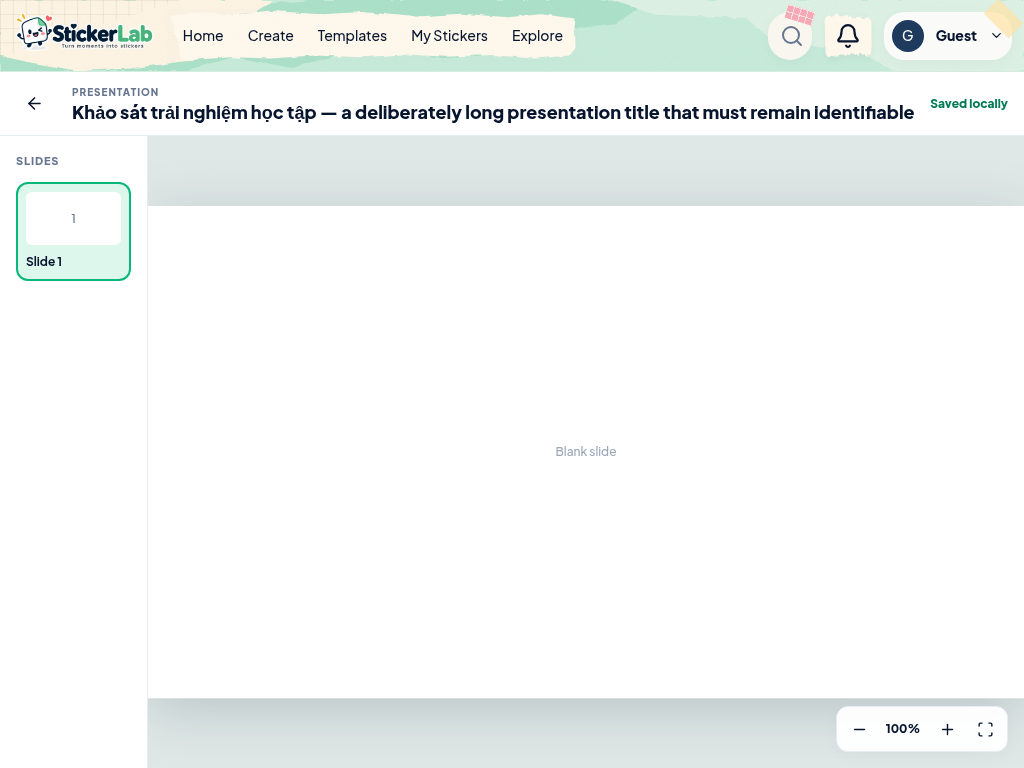
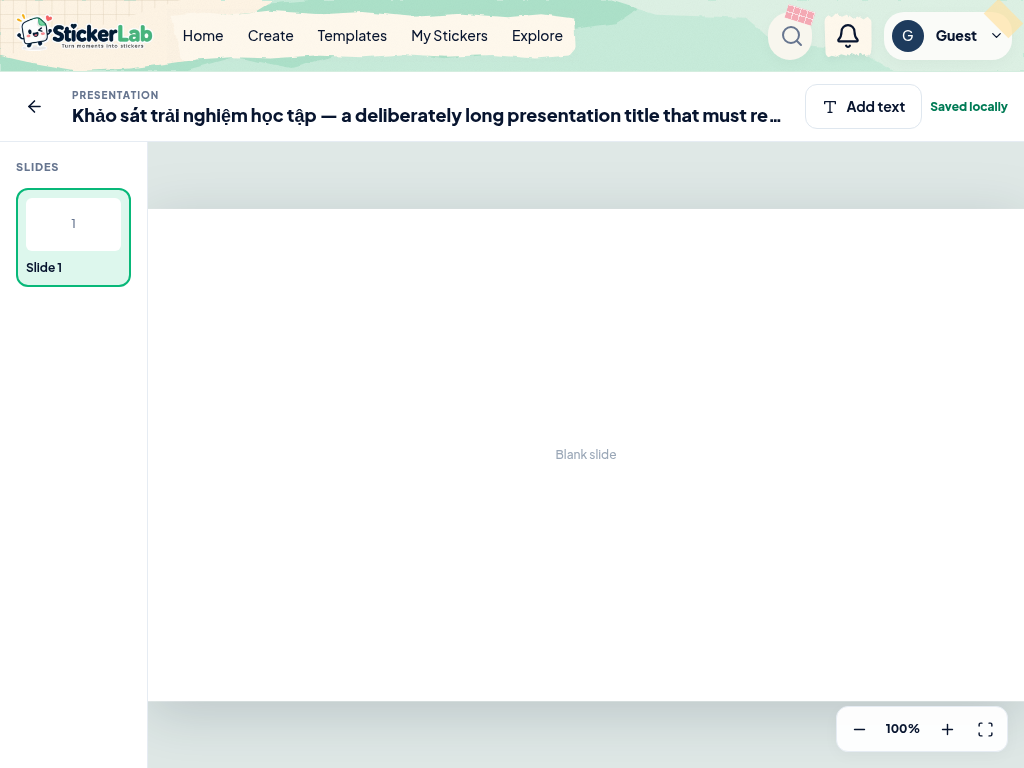
Record P17 text-editing evidence and update the plan
- proofs/p17-text-editing.md: what landed, the falsifiable browser evidence
  (real hit testing, wheel zoom with a mid-word caret, empty-box reachability,
  repository-contract save/reopen with pixel checks), the exact checks, and the
  remaining limits (formatting and transforms in later tasks, pointer-only
  selection, blur-to-commit on canvas interaction, per-keystroke document work).
- Refreshed captures: new p17 editing/reopened shots, and the p15/p16 editor
  shots which now show the Add text/Edit text bar actions.
- Plan marks P17 done and states that save/reopen was proven through the
  repository contract while the Save UI stays in P19; README, CONTEXT, HANDOFF,
  and docs/ui-audit.md describe the text editing UI, its reachable-at-phone
  actions, and its honest unsaved state.

docs/editor-library-research.md stays untracked as the HANDOFF guardrail
requires.

Verified: git diff --check, npm run typecheck, npm run lint (0 errors, 4
existing warnings), npm test (31 files / 352 tests), npm run build,
npx playwright test e2e/presentations.spec.ts (5 passed), e2e/proofs (2 passed),
e2e/editor.spec.ts (6 passed).

diff --git a/proofs/p17-text-editing.md b/proofs/p17-text-editing.md
@@ -1,0 +1,137 @@
+# P17 — basic wrapped text editing
+
+Verified 2026-09-11 on this Linux x86_64 workspace with headless Chromium 152.
+
+## Implemented
+
+- **Insert** — the editor bar's “Add text” action builds a real `TextElement`
+  through `createTextElement()` and `usePresentationStore.addElement()`, then
+  opens the editor for it. Insert is one history entry.
+- **Select** — the renderer makes text elements hit-testable
+  (`renderSlide({ listening: true })`, `createKonvaTextForRun(..., listening)`);
+  shapes and images stay inert until P24. A text element gets a full-box hit
+  region, so an empty or cleared box is still selectable; Konva paints that
+  rect's colour key on the hit canvas only, so nothing extra is drawn. A canvas
+  click selects, an empty-canvas click clears the selection, and a DOM outline
+  shows the selected box. Double click (or the bar's “Edit text” button) opens
+  the editor.
+- **Edit** — `TextEditOverlay` renders one `contenteditable` field positioned
+  over the element in document units and scaled as a whole, so fit, zoom, and
+  pan never re-seed the field or move the caret. The field is seeded from
+  `paragraphsToHtml` and every commit reads back through
+  `readParagraphsFromDom`; the paragraph/run model stays authoritative and the
+  DOM tree is never persisted.
+- **One session, one history entry** — commits share
+  `textHistoryGroup(elementId)` and `endHistoryGroup()` runs when the session
+  ends (blur, Escape, or unmount), so typing ten characters and pressing Escape
+  leaves exactly one undo entry. The store clears the editing target when the
+  element or its slide is removed, on a slide switch, and after undo/redo, so
+  the target cannot go stale.
+- **English/Vietnamese input** — IME composition commits once on
+  `compositionend` instead of per keystroke, and Escape during composition is
+  left to the IME. Paste is intercepted, normalized through
+  `htmlToParagraphs`/`plainTextToParagraphs`, and inserted as plain text with
+  line breaks kept as `<br>`; pasted markup (including `javascript:` links and
+  `<script>`) never reaches the field or the document. A stale DOM selection
+  left over from another element cannot swallow the paste.
+- **Rejected commits stay recoverable** — a command the document rejects (for
+  example text past the 20 000-character limit) shows an honest in-editor alert
+  and keeps the session open instead of throwing out of the React handler and
+  stranding the editor.
+- **Text sessions are view state** — the editing target lives in
+  `view.editingElementId`; opening, closing, or losing it never dirties the
+  document.
+- The edited element's geometry (`x`, `y`, `width`, `height`) is untouched, and
+  text typed into a paragraph with no seeded run uses the element's first-run
+  style, falling back to the document theme's body font and text colour.
+- While the field is focused, wheel zoom over the canvas keeps working and the
+  field travels with the element; canvas clicks and drags follow the usual
+  blur-to-commit rule and end the session.
+
+### Save and reopen
+
+P17 deliberately adds no Save control and no autosave: `docs/slides-implementation-plan.md`
+assigns truthful autosave, explicit Save, and revision conflicts to P19, and the
+editor's status pill already reports the honest `Unsaved changes` state derived
+from `dirty`. The P17 acceptance (“blur/save/reopen without losing content or
+position”) is proven against the persistence contract instead: the edited
+document is saved through `PresentationRepository.savePresentation(document, [],
+{ baseRevision: savedRevision })` and reopened from IndexedDB, and the reopened
+element's text, geometry, and rendered pixels are asserted.
+
+## Acceptance evidence
+
+`e2e/presentations.spec.ts` — `inserts, edits, saves, and reopens a text box
+without moving it` drives the real Konva canvas and the real DOM bridge:
+
+- insert → the overlay opens focused, type `Xin chào Việt Nam — hello`;
+- click the canvas: the session ends, one history entry exists, the status shows
+  `Unsaved changes`, and zoom/pan are still `1`/`{x:0,y:0}`;
+- click the text line on the canvas: `data-selected-element` becomes the element
+  id (real hit testing, not a test seam); double click reopens the editor;
+- wheel-zoom over the canvas while editing: the dashed field still matches the
+  element box within 2 px, ArrowLeft ×2 followed by typing inserts inside the
+  word (`hel~lo`) instead of resetting the caret to the end;
+- insert a second box, blur it without typing, and click it again: the empty box
+  is still selectable through its hit region;
+- save through the repository with `baseRevision` and reopen from
+  `/presentations`: the document JSON keeps the same `x/y/width/height`, and the
+  reopened canvas paints dark text pixels inside the saved box and none in a
+  region below it.
+
+Unit coverage:
+
+- `presentations.test.tsx` — insert + edit with one history entry and unchanged
+  geometry; IME commits once and only on `compositionend`; pasted markup is
+  stripped of links and scripts; pasted line breaks survive (even with a stale
+  selection present); a rejected over-limit commit shows an alert and leaves the
+  session recoverable; opening and closing without typing changes neither
+  history nor revision nor `dirty`; theme body font/colour reach the typed run;
+  an existing rich text element keeps its `spectral`/72/white/bold run and its
+  geometry; the status reports `Unsaved changes`.
+- `editor/store.test.ts` — `startTextEdit`/`endTextEdit` are view state only,
+  reject non-text and unknown ids, close on slide switch, and the target is
+  dropped when its element or slide is removed or undo removes the element.
+
+Committed captures: `proofs/out/p17-editor-editing-1280x768.png`,
+`proofs/out/p17-editor-reopened-1280x768.png`.
+
+## Checks
+
+```text
+git diff --check                                      passed
+npm run typecheck                                     passed
+npm run lint                                          passed, 4 existing Fast Refresh warnings
+npm test                                              passed, 31 files / 352 tests
+npm run build                                         passed
+npx playwright test e2e/presentations.spec.ts --workers=1
+                                                      passed, 5 tests
+npx playwright test e2e/proofs --workers=1            passed, 2 tests
+npx playwright test e2e/editor.spec.ts --workers=1    passed, 6 tests (sticker regression)
+```
+
+The P04 text-bridge and P06 PDF/backup proofs build their own Konva nodes and do
+not call `renderSlide`, so the hit-testing change does not touch them. Inside the
+renderer, `listening` still defaults to `false`; `PresentationCanvas` is the only
+caller that opts in, and `renderSlide` keeps shapes and images inert either way.
+
+## Remaining boundary
+
+P18 (image insertion), P19 (autosave and explicit Save), P20 (library
+management) are not started. Within text editing specifically:
+
+- Moving, resizing, and rotating the box is P24; formatting runs (bold, size,
+  colour, family) is P26; bullets, alignment, spacing, and link editing is P27.
+  Alignment, bullets, and per-run styling survive an edit but cannot be changed
+  from the UI yet, and a paragraph created with Enter reads back as left-aligned.
+- Selection is pointer-only: there is no keyboard path to select an existing box
+  until the element list in P30, and `locked` elements are still editable for the
+  same reason.
+- Interacting with the canvas (click or drag) blurs the field and commits the
+  session; only wheel zoom keeps editing uninterrupted. An explicit edit mode is
+  a later-editing concern.
+- The overlay is not clipped to the slide page, so text overflowing the slide
+  edge is visible while editing and clipped once the session ends.
+- Each keystroke clones, re-serializes, and re-validates the document and
+  rebuilds the canvas page. That is fine at P17 scale and is the obvious place to
+  measure before P19 adds autosave.

diff --git a/HANDOFF.md b/HANDOFF.md
@@ -10,30 +10,20 @@ contracts: [`docs/slides-architecture.md`](docs/slides-architecture.md).
 - **P08 blocked** — no authorized preview deployment. A unit-tested harness is
   ready at `server/processing/probe.ts`; see `proofs/p08-deployment-blocked.md`.
   Do not add catalog/admin ingestion before preview evidence exists.
-- **Milestone 1 through P16 complete** — model, parser, command store,
+- **Milestone 1 through P17 complete** — model, parser, command store,
   repository contract (memory + IndexedDB at schema v5), local library/blank
-  creation/editor routes, and fixed 16:9 rendering are implemented with tests.
+  creation/editor routes, fixed 16:9 rendering, and basic wrapped text editing
+  are implemented with tests.
 - `/presentations` creates and reopens real local documents (blank documents are
   saved at creation). The editor renders the active slide, lists the document's
-  slides, and switches between them; user mutations and edit autosave arrive in
-  P17–P19.
-- Evidence: `proofs/p15-p16-basic-presentations.md` (including committed captures
-  in `proofs/out/p15-*` and `p16-*`) plus the earlier foundation and correction
-  proofs.
+  slides, switches between them, and edits text boxes through the DOM bridge.
+  Image insertion arrives in P18 and truthful save/autosave in P19, so edits
+  currently stay in memory and the status pill reports `Unsaved changes`.
+- Evidence: `proofs/p15-p16-basic-presentations.md` and
+  `proofs/p17-text-editing.md` (including committed captures in `proofs/out/`)
+  plus the earlier foundation and correction proofs.
 
-## Start here: P17, then P18–P19
-
-**P17 — basic wrapped text editing** (acceptance: edit English/Vietnamese,
-blur/save/reopen without losing content or position):
-
-- Insert a real `TextElement` through `usePresentationStore` commands; do not
-  mutate the loaded document object or Konva node.
-- Reuse `textBridge.ts` for the DOM editor and `layoutTextElement` for the canvas.
-  Keep IME composition and paste normalization from the P04 proof.
-- Use Be Vietnam Pro/Spectral only and wait for the font promise already owned by
-  `PresentationEditorPage` before measuring.
-- Add an accessible DOM field/overlay; canvas shortcuts must stay inactive while
-  typing. One completed text session becomes one history entry.
+## Start here: P18, then P19
 
 **P18 — personal image insertion** (acceptance: supported upload is stored and
 inserted atomically; failure leaves no broken element):
@@ -51,7 +41,8 @@ failed writes retain editable work):
 - Flush active text/gesture/media work before save and route replacement.
 - Use `savedRevision`/`baseRevision`; surface revision conflicts without silently
   overwriting another tab. Do not reuse sticker `draftSaving` wholesale.
-- Grow `e2e/presentations.spec.ts` into the edit → save → reload → reopen flow.
+- Extend `e2e/presentations.spec.ts` from the P17 repository-contract round trip
+  into the real UI save flow (edit → save → reload → reopen).
 
 ## Interfaces to build on
 
@@ -63,6 +54,7 @@ failed writes retain editable work):
 | Mutations + undo | `editor/store.ts` (`usePresentationStore`; view state never dirties) |
 | Persistence | `lib/persistence/presentations/repository.ts` (memory) and `.../idb.ts` |
 | Text | `rendering/textLayout.ts` + `editor/textBridge.ts` + `rendering/fonts.ts` (`ensurePresentationFonts()` before measuring) |
+| Text editing | `editor/TextEditOverlay.tsx` + `editor/textEditSession.ts`; commits go through `store.updateText` with `textHistoryGroup`, one entry per session |
 | Page rendering | `rendering/renderSlide.ts` + `editor/PresentationCanvas.tsx`; stage transforms are view-only |
 | Canvas view controls | `editor/PresentationCanvasControls.tsx` + `editor/viewGeometry.ts` (shared 0.25–4 clamp) |
 | Current routes | `library/PresentationsPage.tsx` and `editor/PresentationEditorPage.tsx` |
@@ -81,6 +73,9 @@ failed writes retain editable work):
   `src/styles.css`; no page-local lookalikes.
 - Keep canvas zoom/fit in `PresentationCanvasControls` and its limits in
   `viewGeometry.ts`; do not add a second zoom implementation or clamp.
+- Text edits go through `TextEditOverlay` + `textBridge` and commit with
+  `store.updateText` inside `textHistoryGroup(id)`; never persist the DOM tree.
+  `view.editingElementId` is view state, and nothing may save yet (P19).
 - The P15/P16 browser spec writes its captures into `proofs/out/`; keep that
   evidence current when the presentation UI changes.
 - Presentation text uses Be Vietnam Pro / Spectral only (Vietnamese coverage);

diff --git a/README.md b/README.md
@@ -2,7 +2,7 @@
 
 Mint-green local sticker editor. Create a sticker, upload a photo, edit, save, reopen, and export a transparent PNG — no cloud credentials required.
 
-The [university presentations implementation plan](docs/slides-implementation-plan.md) is in progress, with [architecture](docs/slides-architecture.md) and an admin dashboard design concept. The current app can create, list, reopen, and preview local 16:9 presentations; text/image editing, presentation export, templates, and catalog administration remain planned increments.
+The [university presentations implementation plan](docs/slides-implementation-plan.md) is in progress, with [architecture](docs/slides-architecture.md) and an admin dashboard design concept. The current app can create, list, reopen, and preview local 16:9 presentations and edit slide text; image insertion, text formatting, presentation export, templates, and catalog administration remain planned increments.
 
 ![StickerLab overview of Dashboard, Create Sticker, and Templates](readme-included.png)
 
@@ -92,7 +92,8 @@ Fonts and cutouts are served locally, with no extra credentials or dependencies.
 - [x] Local-first save/reopen, offline editing, retry queue across reload, and explicit guest collection import
 - [x] Atomic compare-and-set concurrency revision checks with automatic conflict copies for stickers and packs
 - [x] Local presentation library (`/presentations`), blank creation/reopen, recoverable load states, and a fixed 1280×720 slide preview with view-only fit/zoom/pan
-- [ ] Presentation text/image editing, autosave, PDF/PPTX/backup UI, templates, and administrator catalog workflows
+- [x] Slide text boxes: insert, select on the canvas, and edit English/Vietnamese through the proven DOM text bridge, with one undo entry per text session
+- [ ] Presentation image insertion, autosave/explicit Save, PDF/PPTX/backup UI, templates, and administrator catalog workflows
 - [ ] Public/read-only cloud sharing and native WhatsApp/Telegram installation
 
 Deferred actions open an explanation or stay disabled. They do not report success. Automatic background removal and public sharing are unavailable.
@@ -148,4 +149,4 @@ Verification commands: `npm run typecheck`, `npm run lint`, `npm test`, `npm run
 
 `e2e/fonts-stickers.spec.ts` verifies all six font faces through the editor UI, downloaded PNG pixels after save/reopen, delayed and failed font loads, and cutout + text preset → rotate/outline → save/reopen → transparent PNG at desktop/tablet/mobile widths. These specs do not import the editor store; they drive the live document and inspect files. Run them against the production preview with `npx playwright test e2e/fonts-stickers.spec.ts e2e/render-parity.spec.ts --config playwright.preview.config.ts`.
 
-`e2e/ui-polish.spec.ts` checks all four sticker routes and representative dialogs at 1440×900, 1024×768, and 390×844, plus a short 390×480 viewport. It covers image loading, overflow, keyboard focus trapping/restoration, mobile pack controls, and isolation of editor shortcuts from dialogs. Refresh screenshots are generated outside the repository at `/tmp/stickerlab-ui-audit/`; foundation screenshots remain at `/tmp/stickerlab-browser-verification/`. The `/presentations` route family has its own spec and committed captures: `e2e/presentations.spec.ts` with evidence in `proofs/out/p15-*` and `proofs/out/p16-*` (see `proofs/p15-p16-basic-presentations.md`).
+`e2e/ui-polish.spec.ts` checks all four sticker routes and representative dialogs at 1440×900, 1024×768, and 390×844, plus a short 390×480 viewport. It covers image loading, overflow, keyboard focus trapping/restoration, mobile pack controls, and isolation of editor shortcuts from dialogs. Refresh screenshots are generated outside the repository at `/tmp/stickerlab-ui-audit/`; foundation screenshots remain at `/tmp/stickerlab-browser-verification/`. The `/presentations` route family has its own spec and committed captures: `e2e/presentations.spec.ts` (5 tests at 1440×900, 1280×768, 1024×768, and 390×844) with evidence in `proofs/out/p15-*`, `proofs/out/p16-*`, and `proofs/out/p17-*` (see `proofs/p15-p16-basic-presentations.md` and `proofs/p17-text-editing.md`).

diff --git a/docs/ui-audit.md b/docs/ui-audit.md
@@ -75,7 +75,13 @@ Verified: 22 UI-polish browser tests, typecheck, build, lint (zero errors; five 
 
 Responsive behaviour: below 1150 px the inspector is dropped, and at phone widths the rail and inspector are hidden in favour of an honest desktop-authoring notice plus a readable preview and the shared zoom/fit controls. There is no horizontal scrolling at 390×844, 1024×768, 1280×768, or 1440×900.
 
-Evidence: `e2e/presentations.spec.ts` (4 tests) plus committed captures in `proofs/out/` (`p15-*`, `p16-*`) at 1440×900, 1024×768, 390×844, and 1280×768. `e2e/ui-polish.spec.ts` was deliberately not extended: 12 of its desktop-width checks already fail in `proofs/baseline.md`, and the new routes carry their own containment, keyboard, and pixel assertions. The presentation editor still uses the shared sticker editor shell, the tablet inspector has no sheet yet, and nothing here removes the existing sticker-page limitations or the unresolved artwork-rights review.
+Evidence: `e2e/presentations.spec.ts` (5 tests, including insert → type → blur → save → reopen for a text box) plus committed captures in `proofs/out/` (`p15-*`, `p16-*`, `p17-*`) at 1440×900, 1024×768, 390×844, and 1280×768. `e2e/ui-polish.spec.ts` was deliberately not extended: 12 of its desktop-width checks already fail in `proofs/baseline.md`, and the new routes carry their own containment, keyboard, and pixel assertions. The presentation editor still uses the shared sticker editor shell, the tablet inspector has no sheet yet, and nothing here removes the existing sticker-page limitations or the unresolved artwork-rights review.
+
+## Presentation text editing follow-up
+
+The presentation editor bar now carries the two text actions — “Add text” and, when a text box is selected, “Edit text” — as shared `Button` primitives with the existing icons. The bar keeps them in the same actions group as the save status and wraps them below the title at phone widths, so the actions stay reachable instead of being hidden with the inspector. Selecting a box draws a mint outline over the canvas (view-only chrome that never enters a save or export), and editing opens a dashed-outline DOM field over the box using the shared bridge and the element's own font, size, and colour, so typed text keeps the document's styling. Interacting with the canvas follows the sticker editor's blur-to-commit rule: a click or drag ends the session, while wheel zoom keeps it open and the field stays aligned with the element.
+
+Evidence: `e2e/presentations.spec.ts` (`inserts, edits, saves, and reopens a text box without moving it`) drives real canvas hit testing, typing, wheel zoom with a mid-word caret, Escape, an empty box that stays selectable, and the save/reopen round trip; captures are committed as `proofs/out/p17-editor-editing-1280x768.png` and `proofs/out/p17-editor-reopened-1280x768.png`. Known limits: the hit region is the element box but selection is pointer-only (no keyboard path until the P30 element list), `locked` elements are still editable, text overflowing the slide edge is visible while editing and clipped after blur, and there is still no Save control — the status pill honestly reports `Unsaved changes` until P19.
 
 ## Boundaries
 

diff --git a/docs/slides-implementation-plan.md b/docs/slides-implementation-plan.md
@@ -4,8 +4,9 @@
 recorded evidence under `proofs/`; P08 is blocked pending an authorized preview deployment (see
 `proofs/p08-deployment-blocked.md`). Milestone 1 foundation (P09–P14) is implemented with unit
 contract tests (the IndexedDB adapter is recorded in `proofs/p13-p14-idb.md`); the presentation
-library, blank creation/editor routes, and fixed slide renderer (P15–P16) are implemented and
-recorded in `proofs/p15-p16-basic-presentations.md`. P17 onward is not started. Review-driven
+library, blank creation/editor routes, fixed slide renderer (P15–P16) and basic wrapped text
+editing (P17) are implemented and recorded in `proofs/p15-p16-basic-presentations.md` and
+`proofs/p17-text-editing.md`. P18 onward is not started. Review-driven
 corrections are recorded in `proofs/correction-pass.md`. Start the next session from
 [`HANDOFF.md`](../HANDOFF.md).
 
@@ -75,7 +76,7 @@ The first coding task is **P01**, then the **export/text proof P02–P05**. Do n
 | [x] | P14 | Add atomic presentation/media saves and revision checks. | P13 | Failed writes preserve prior save; concurrent tab stale writes cannot silently win. |
 | [x] | P15 | Add presentation list, blank creation and editor routes using shared shell/components. | P11, P14 | Create and reopen from real local state; empty/long-title states usable. |
 | [x] | P16 | Render one fixed 16:9 slide, background and selected elements; fit/zoom/pan. | P15 | View transforms never alter stored coordinates; page bounds remain fixed. |
-| [ ] | P17 | Add a basic wrapped text box using the proven text bridge and model. | P04, P05, P16 | Edit English/Vietnamese, blur/save/reopen without losing content or position. |
+| [x] | P17 | Add a basic wrapped text box using the proven text bridge and model. | P04, P05, P16 | Edit English/Vietnamese, blur/save/reopen without losing content or position. Save/reopen is proven through the repository contract in P17; the Save/autosave UI is P19. |
 | [ ] | P18 | Add personal PNG/JPEG/static WebP image upload and stored media insertion. | P14, P16 | Existing size/format validation reused where valid; failed upload leaves no broken layer. |
 | [ ] | P19 | Add autosave and explicit Save with truthful state and edit/media flushing. | P17, P18 | Dirty → saving → saved locally; induced quota/write failure retains editable work. |
 | [ ] | P20 | Add thumbnails, rename, duplicate and safe delete in presentation library. | P19 | Duplicate independent; delete cancels safely and restores focus; sticker projects untouched. |

diff --git a/proofs/README.md b/proofs/README.md
@@ -8,6 +8,9 @@ Everything in this directory is developer evidence, not user-facing functionalit
 - `baseline.md` — P01: recorded repository scripts, routes and regression baseline.
 - `p15-p16-basic-presentations.md` — P15/P16: local list/create/reopen routes,
   fixed slide rendering, responsive inspection, and view-only transform evidence.
+- `p17-text-editing.md` — P17: insert/select/edit text through the proven DOM
+  bridge, IME and paste handling, one undo entry per session, and the
+  save/reopen round trip through the repository contract.
 - `out/` — generated proof outputs (PPTX, PDF, PNG renders, reports) referenced from task evidence.
 - Proof support modules live next to the code they exercise (for example
   `src/features/presentations/model/fixtures/`) so the same fixture is reused by tests and proofs.

diff --git a/CONTEXT.md b/CONTEXT.md
@@ -38,6 +38,6 @@ A copy of a saved sticker's appearance inserted into a presentation as one image
 
 ## Implementation status
 
-Presentation work is in progress. The current increment, the next tasks (P17–P19)
+Presentation work is in progress. The current increment, the next tasks (P18–P19)
 and the verification commands are in [`HANDOFF.md`](HANDOFF.md). Planning lives in
 `docs/` (architecture, implementation plan, ADRs); evidence lives in `proofs/`.
